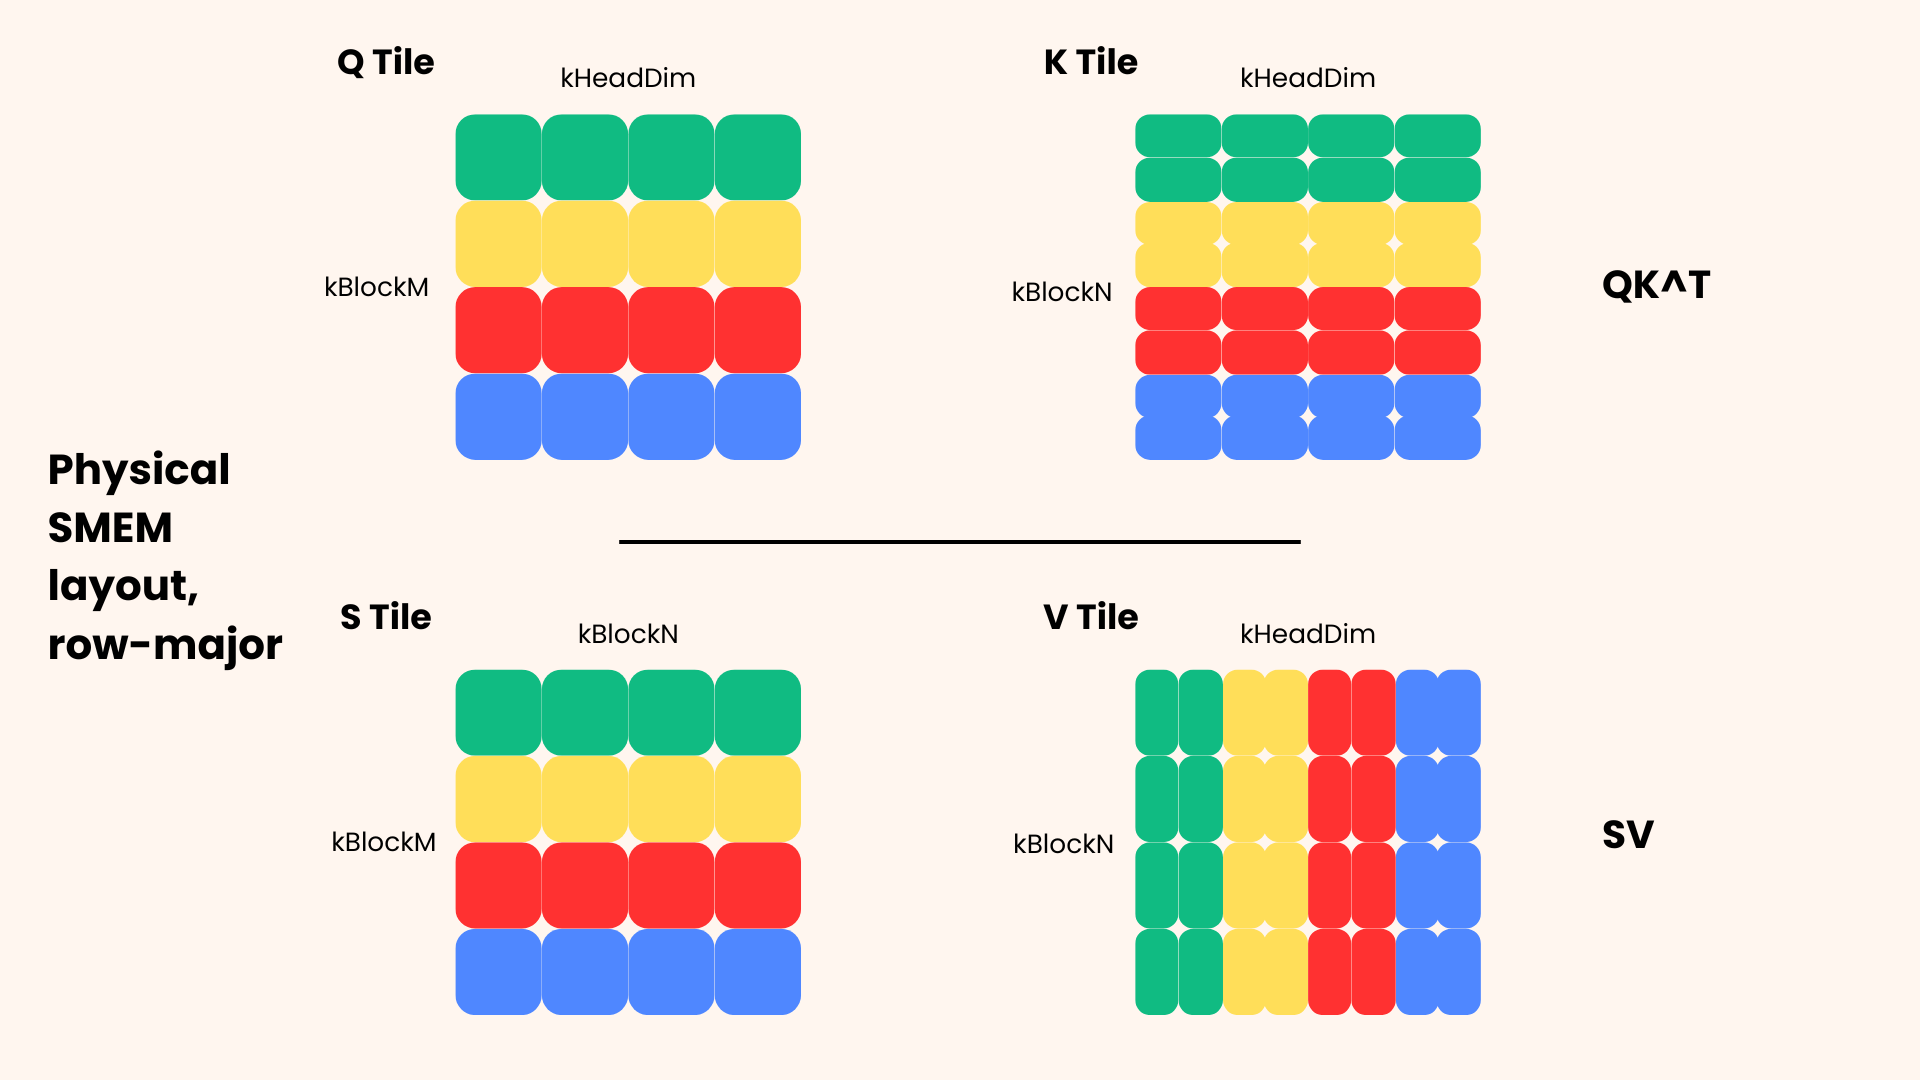
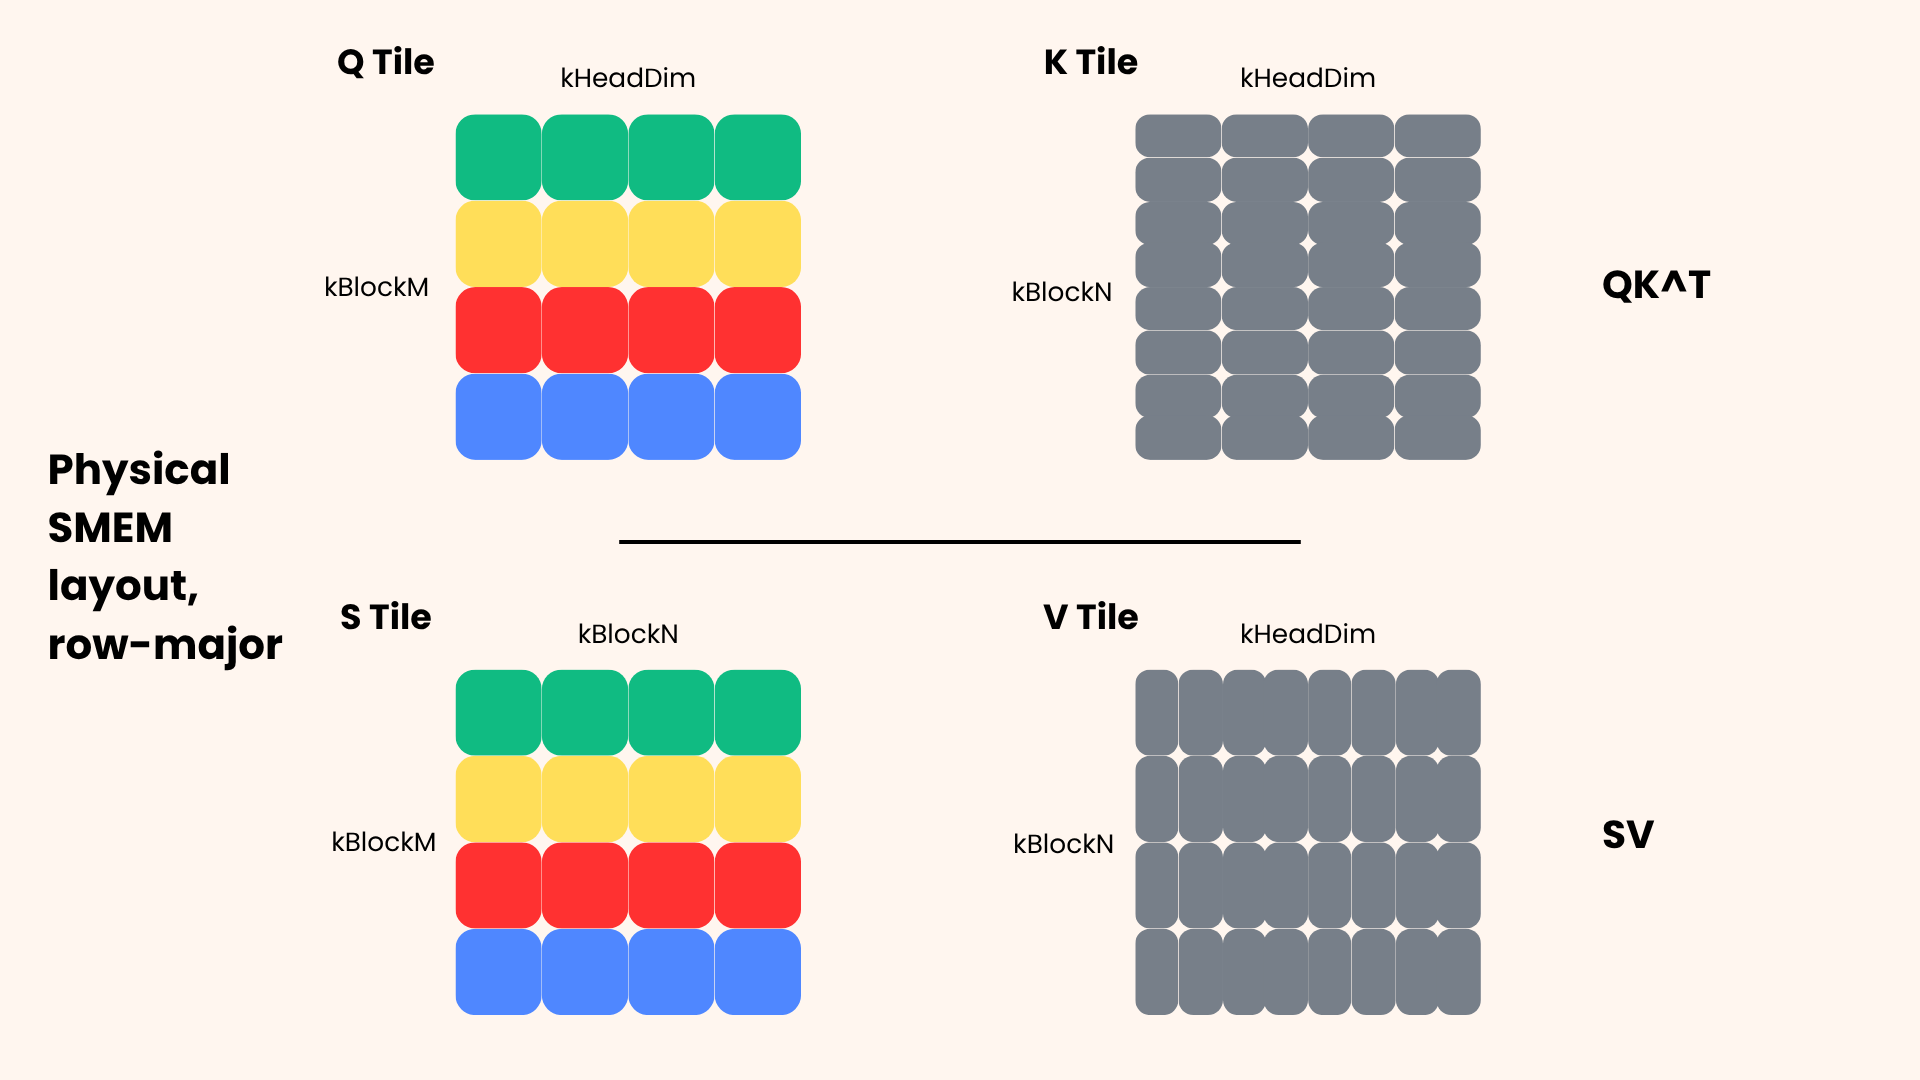
Fix diagrams for mma

Changed region(s): [[0.5938, 0.6111, 0.7812, 0.9472], [0.5938, 0.0917, 0.7812, 0.4278]]

diff --git a/content/post/2026-05-18-flashattn-cutlass/index.md b/content/post/2026-05-18-flashattn-cutlass/index.md
@@ -23,7 +23,7 @@ We'll walk through FlashAttention-2 end-to-end on an A100, implemented in C++ Cu
 
 A quick note on what this blog is supposed to be -- CuTe's documentation is a reference, not a tutorial. You can read it cover to cover and walk away still not knowing CuTe; it's only really worth consulting once you're already trying to do something specific and have hit a wall. This post attempts to be that something specific, and we're going to run straight into those walls together. Most public CuTe writing covers one layer at a time: a layout here, a swizzle there, an MMA atom over there. Tying them into a real kernel is where the difficulty actually lies, and that's the gap this post is trying to fill.
 
-The code we'll walk through is a stripped-down mirror of Tri Dao's production FA-2: same idioms, same building blocks, often the same lines, but with the causal/RoPE/dropout/KV-cache/QK-smem-sharing template branches removed. The core logic is visible instead of buried under config flags that bloat up the repo. Where it matters, our kernel reaches close to parity with the source -- on an A100, **88-105% of production FA-2's throughput** across hdim=64/128 and seq lengths up to 64K, peaking at 63% of fp16 tensor-core utilization ([full benchmark table](https://github.com/cloudui/cuda-triton#cute-flashattention-2-cuda-batch4-heads8)).
+The code we'll walk through is a stripped-down mirror of Tri Dao's production FA-2: same idioms, same building blocks, often the same lines, but with the causal/RoPE/dropout/KV-cache/QK-smem-sharing template branches removed. The core logic is visible instead of buried under config flags that bloat up the repo. Where it matters, our kernel reaches close to parity with the source -- on an A100, **98-112% of production FA-2's throughput** across hdim=64/128 and seq lengths up to 64K, peaking at 63% of fp16 tensor-core utilization ([full benchmark table](https://github.com/cloudui/cuda-triton#cute-flashattention-2-cuda-batch4-heads8)).
 
 The point is not novelty -- it's just to show that our simplifications do not break performance. We are rewriting one production case of many, albeit the simplest and least commonly used: full standard attention. Unlike the autoregressive attention used in LLMs, there is no causal mask prior to the softmax; we're working with the full, standard attention operation. 
 
@@ -648,7 +648,7 @@ Tensor gK = local_tile(mK, make_shape(Int<kBlockN>{}, Int<kHeadDim>{}),
 
 ## SMEM->Registers
 
-> **Read this first: thread view vs. tile view.** From here on out, we're working with tensor-core fragments, and CuTe will start lying to you in a productive way. When CuTe shows you a fragment with shape `((2,2), MMA_M, MMA_N)`, that is **not the shape of a tile** — it's the shape of *one thread's slice of every tile*. The `(2,2)` is the 4 elements that thread holds in a single 16x8 atom; the `MMA_M, MMA_N` count how many atoms tile across the full block. Every operation on a fragment tensor — every `for r in size<0>(frag)`, every `frag(i, j)` — is implicitly executed by all 32 threads of a warp in lock-step, each on its own values. CuTe abstractions (`partition_fragment`, `cute::gemm`, `cute::copy`) make this look like normal tensor code, which is the exact source of confusion: the only place the thread view is *visible* in code is the ~5 lines around `get_thread_slice(tid)`. Whenever a layout stops making sense, ask "is this a tile shape or a thread-slice shape?" — it's almost always the second.
+> **Read this first: thread view vs. tile view.** From here on out, we're working with tensor-core fragments, and CuTe will start lying to you in a productive way. When CuTe shows you a fragment with shape `((2,2), MMA_M, MMA_N)`, that is **not the shape of a tile** -- it's the shape of *one thread's slice of every tile*. The `(2,2)` is the 4 elements that thread holds in a single 16x8 atom; the `MMA_M, MMA_N` count how many atoms tile across the full block. Every operation on a fragment tensor -- every `for r in size<0>(frag)`, every `frag(i, j)` -- is implicitly executed by all 32 threads of a warp in lock-step, each on its own values. CuTe abstractions (`partition_fragment`, `cute::gemm`, `cute::copy`) make this look like normal tensor code, which is the exact source of confusion: the only place the thread view is *visible* in code is the ~5 lines around `get_thread_slice(tid)`. Whenever a layout stops making sense, ask "is this a tile shape or a thread-slice shape?" -- it's almost always the second.
 
 We'll issue a second `Tiled_Copy` to copy from SMEM to the registers. The copy pattern is mostly the same, but instead of simply transferring memory from SMEM to the registers, we must format the SMEM and registers for the tensor core matrix multiply-add (MMA) instructions.
 
@@ -723,13 +723,12 @@ The standard practice for any GEMM is to split the GEMM along the K-dimension. T
 
 We choose 128 threads (4 warps) because each SM has 4 resident tensor cores -- a sensible choice to maximize MMA throughput. For the layout, we tile across the M-dimension (taking a slice from the left column of Q) and move across the K-dimension. Each tile is `kNWarps` stacked on top of each other; for a 16x8x16 MMA atom, our tile shape becomes $(M, N, K) = (16\cdot\text{kNWarps}, 16, 16)$.
 
-We flagged this M-tiling design choice in the [Basic Structure section](#basic-structure). The `Layout<Shape<Int<kNWarps>, _1, _1>>` puts all the warps along M with `_1` along N and K, which means **every warp owns whole rows of the output, never a horizontal slice of one**. Since N only gets `_1`, the same warp sweeps across every N-tile itself, computing its rows of S against every key in the block. When we compute the per-row max and per-row sum during softmax, the values to be reduced live in registers within a single warp, so the reduction is a `__shfl_xor_sync()` away — no SMEM staging, no thread-block sync. If we had tiled warps along N instead, that same reduction would have to cross warps and we'd be staging through SMEM with `__syncthreads()` on every iteration, crushing our performance. This staging was a forced sticking point on original FlashAttention-1.
+We flagged this M-tiling design choice in the [Basic Structure section](#basic-structure). The `Layout<Shape<Int<kNWarps>, _1, _1>>` puts all the warps along M with `_1` along N and K, which means **every warp owns whole rows of the output, never a horizontal slice of one**. Since N only gets `_1`, the same warp sweeps across every N-tile itself, computing its rows of S against every key in the block. When we compute the per-row max and per-row sum during softmax, the values to be reduced live in registers within a single warp, so the reduction is a `__shfl_xor_sync()` away -- no SMEM staging, no thread-block sync. If we had tiled warps along N instead, that same reduction would have to cross warps and we'd be staging through SMEM with `__syncthreads()` on every iteration, crushing our performance. This staging was a forced sticking point on original FlashAttention-1.
 
 We'll also see soon that this TiledMMA takes in only one `Layout` argument. The `(M, N, K)` we defined applies to A, B, and C according to the M, N, K dimensions they hold. This is why `16*kNWarps` means each warp holds a 16-row band of the output C spanning all N columns. (Within the warp, each row is further spread across a quad of 4 threads, which we'll come back to in softmax.) And when we actually write the code loop, we'll see how this influences the K-loop.
 
 > **Note**: $N=16$, not 8, because we must aggregate across adjacent N-atoms to produce one 16x16 output tile due to the 16x8 asymmetry. That also means our `LDSM` copy atom loads two K, V tiles per instruction. This works because our N-tiles are index-adjacent.
 
-<!-- TODO: recolor B in tiled_mma.png as a neutral gray (shared), keeping A and C in warp colors -->
 ![Tiled MMA layout for one step of the GEMM. For A and C, each solid color is one of four warps; if we had more rows, the color pattern would repeat. B is shared: every warp reads all of B, and its tiling shows the MMA atoms, not ownership. Each 16x16 B-tile is composed of two 16x8 fragments that are adjacent along N for shape (K, N). Note that B is transposed in this visualization.](tiled_mma.png)
 
 With this info, let's define the full `Tiled_MMA`.
@@ -832,13 +831,30 @@ Notice that Q's M mode is divided by `kNWarps`, but K's N mode isn't. Each warp 
 
 We already defined the `TiledMMA` and our `SmemCopyAtom`, but as we said before, nothing happens until we actually invoke our copy and GEMM calls. As discussed in the [K-split section](#k-split-gemm), we load one k-slice per iteration and accumulate it into the output. Before each GEMM, we prefetch the next k-slice of the Q and K fragments so we can overlap the SMEM->register loads with the GEMM compute.
 
+![How one warp creates one output tile. It's pretty much how you learned to multiply matrices by hand but with tiles instead of individual numbers. We iterate over the K-dimension where the warp does one tile MMA at a time and adds to the previous's result. The colors match the blocks that multiply.](mma_macro.png)
+
 We index these k-slices via `register(_, _, i)` to grab the relevant fragments per loop iteration. The underscores keep the M (or N) mode intact, so each partial GEMM computes across the M and N dimensions automatically, since those are independent output cells for a fixed k-slice. That means each warp computes its resident Q fragment against all `kBlockN/8` K fragments in one go, and every warp reads those same K fragments from SMEM. The accumulator `acc_s` covers the full `(kBlockM, kBlockN)` block across all warps, with each warp holding its own 16-row band across every column, and each k iteration just adds to the existing output.
 
-![Macro view of the MMA. We iterate over the K-dimension, each tile multiplying across and summing into one output tile. The colors just mean they pair, not that they are the same. In the tiled MMA, CuTe handles all the M, N work on our behalf. We just have to accumulate along the K-dim.](mma_macro.png)
+![One k-step of the warp-wide MMA (k=0). Each warp (color) multiplies its own k=0 slice of Q by the same k=0 slice of K^T, which every warp reads from SMEM, and accumulates into its row band of S across all of N. At the next step, every warp moves to k=1 together.](tiled_mma_step_0.png)
 
 Here's the full GEMM block:
 
-(code unchanged)
+```cpp
+// load initial Q, K fragments (0)
+cute::copy(smem_tiled_copy_Q, tSsQ(_, _, _0{}), tXrQ(_, _, _0{}));
+cute::copy(smem_tiled_copy_K, tSsK(_, _, _0{}), tXrK(_, _, _0{}));
+// compile-time static, registers only live per iteration
+#pragma unroll
+for (int i = 0; i < size<2>(tSrQ); i++) {
+  // prefetch next Q, K block
+  if (i < size<2>(tSrQ) - 1) {
+    cute::copy(smem_tiled_copy_Q, tSsQ(_, _, i + 1), tXrQ(_, _, i + 1));
+    cute::copy(smem_tiled_copy_K, tSsK(_, _, i + 1), tXrK(_, _, i + 1));
+  }
+  // MMA on frags
+  cute::gemm(tiled_mma, tSrQ(_, _, i), tSrK(_, _, i), acc_s);
+}
+```
 
 > **Note**: The `cute::gemm` call does all the M, N work for us automatically, so this K loop isn't strictly required. `cute::gemm` also accepts fragments with a K mode, so we could invoke one full `cute::copy` on `tSsQ, tSsK` without indexing, which would load every k-slice of the Q and K fragments into registers at once, and then call `cute::gemm` a single time with no loop. The K-split is the standard pattern because it keeps only about two k-slices live in registers, avoiding register pressure (and possible spills at larger head dims), and lets us overlap loads with the MMAs. CuTe gives us the flexibility to choose.
 
@@ -1051,8 +1067,7 @@ Tensor tVsV = gmem_thr_copy_QKV.partition_D(sV);
 ### V: SMEM->Register
 This is the step where we have to tread a bit carefully. V is sitting in SMEM in the same format as Q and K -- contiguous along `kHeadDim` -- so we can't just copy our SMEM->register pipeline from earlier. This part is a bit confusing, so let's visualize the problem first:
 
-<!-- TODO: recolor V in mma_v_layout.png as a neutral gray (shared by all warps), keeping Q and S in warp colors -->
-![SMEM physical layout for our MMAs. Each block is a tile. Q and S are colored by the warp that owns their rows; K and V are shared, and every warp reads the whole tile.](mma_v_layout.png)
+![SMEM layout of the Q, K, S, and V tiles (logical row-major view, swizzle not shown). Q and S are colored by the warp that owns their rows; K and V are shared by all warps. Q·Kᵀ reduces along kHeadDim, which is contiguous for K, but S·V reduces along kBlockN, which runs down V's rows -- so the MMA tiles fall on V transposed relative to K.](mma_v_layout.png)
 
 > **Note**: The Tiled MMA figure in our [tiled MMA section](#tiled-mma) shows the logical (K, N) view the MMA wants. The figure here shows V's physical layout in SMEM, which is why we need the transpose.
 
@@ -1376,7 +1391,7 @@ softmax_rescale_o(Tensor0 &acc_s, // (MMA, MMA_M, MMA_N) score block, fp32
 So what actually goes into computing the max and the sum?
 
 ## Row Reduce
-This is the moment where the [warp-per-row tiling](#tiled-mma) pays off. Each warp owns 16 rows of its MMA tile, fully -- no row is split across warps. Therefore, the per-row max and sum reductions stay inside a warp and resolve via **warp reduction**, "a highly efficient CUDA parallel reduction technique that aggregates data across 32 threads within a single GPU warp."[^5] CUDA provides warp primitives such as `__shfl_down_sync()` and `__shfl_xor_sync()`, which shuffle data across threads in a warp without any load/stores or shared-memory staging. Zero memory latency, zero `__syncthreads()`, and our max/sum is pretty much free.
+This is the moment where the [warp-per-row tiling](#tiled-mma) pays off. Each warp owns 16 rows of its MMA tile, fully -- no row is split across warps -- and computes each of those rows against every key in the block. Therefore, the per-row max and sum reductions stay inside a warp and resolve via **warp reduction**, "a highly efficient CUDA parallel reduction technique that aggregates data across 32 threads within a single GPU warp."[^5] CUDA provides warp primitives such as `__shfl_down_sync()` and `__shfl_xor_sync()`, which shuffle data across threads in a warp without any load/stores or shared-memory staging. Zero memory latency, zero `__syncthreads()`, and our max/sum is pretty much free.
 
 ![XOR shuffle pattern. Thanks to Hyunsung Lee's Blog for this graphic](xor.png)
 
@@ -1389,7 +1404,7 @@ Recall that every thread in a 16x8 MMA output fragment holds $16\cdot 8 / 32=4$ 
 
 Let's look at the bottom right output fragment C this time and zoom in on thread 0's values. We can see it owns output elements `(0, 0), (0, 1), (8, 0), (8, 1)`. If we examine all the other threads, we see that they each own 4 elements across two rows. Let's clarify the math a bit:
 
-From the [MMA Shape](#mma-shape) section, the C-fragment has shape `((2, 2), MMA_M, MMA_N)` where `MMA_M = kBlockM / (16*kNWarps)` and `MMA_N = kBlockN / 8`. The `(2, 2)` is each thread's 4 values per tile (2 rows, 2 columns) so each thread's values span `MMA_M * 2` rows and `MMA_N * 2` columns total.
+From the [MMA Shape](#mma-shape) section, the C-fragment has shape `((2, 2), MMA_M, MMA_N)` where `MMA_M = kBlockM / (16*kNWarps)` and `MMA_N = kBlockN / 8`. The `(2, 2)` is each thread's 4 values per tile (2 rows, 2 columns) so each thread's values span `MMA_M * 2` rows and `MMA_N * 2` columns total. Since warps never split N, `MMA_N` covers the *entire* `kBlockN`. That's why a per-thread reduce followed by a reduce across the few threads sharing each row is a complete row reduction: no other warp holds any part of the row.
 
 To make the reduction loop look like ordinary 2D code, Dao reshapes this hierarchical fragment into a flat row-major `(2*MMA_M, 2*MMA_N)` view. Since the block sizes are static, the reshape is free. It's purely a code-quality trick; the resulting PTX is identical to iterating over the raw MMA shape.
 
@@ -1535,7 +1550,7 @@ __device__ __forceinline__ T allreduce(T x, Op op) {
 ```
 
 ### Quad Reduce
-The reason we give `allreduce` a template variable `N` is that we're not actually reducing across all 32 threads. We only need to reduce over the number of threads that own each row. In the [MMA Atom Layout image](#thread-reduce) from earlier, we see that four adjacent threads collectively own each row. Therefore, `N=4` -- hence, "quad" reduce. The XOR primitive automatically reduces between participating threads, so we don't have to iterate in groups of four -- the sync instruction waits for each four-thread group to enter the reduction. Our quad reduce function is therefore quite simple:
+The reason we give `allreduce` a template variable `N` is that we're not actually reducing across all 32 threads. We only need to reduce over the threads that own each row. In the [MMA Atom Layout image](#thread-reduce) from earlier, we see that four adjacent threads collectively own each row. Therefore, `N=4` -- hence, "quad" reduce. With XOR offsets of 2 and then 1, each shuffle only ever exchanges values between lanes in the same group of four, so all eight quads in the warp reduce simultaneously in two steps -- we don't have to iterate in groups of four ourselves. Our quad reduce function is therefore quite simple:
 
 ```cpp
 template <typename Engine0, typename Layout0, typename Engine1,
@@ -1878,7 +1893,7 @@ softmax.normalize_softmax(acc_o);
 ```
 
 # Epilogue: Output->GMEM
-We now have our output stored in fragments across all the warps, and we want to write them back to `o_ptr` in GMEM. The optimal way to perform the write-back is:
+We now have our output stored in fragments across all the warps -- each warp holding exactly its own rows of O, just as it held its own rows of S -- and we want to write them back to `o_ptr` in GMEM. The optimal way to perform the write-back is:
 
 ```
 Registers->SMEM->Registers->GMEM
@@ -1887,8 +1902,8 @@ Registers->SMEM->Registers->GMEM
 You might be wondering: if we're going to go from SMEM back to registers anyway, why don't we just write back directly from the fragments? The answer is threefold:
 
 1. **No SMEM->GMEM instructions**: Ampere has the nice async GMEM->SMEM pipeline, but no direct SMEM->GMEM pipeline. Therefore, we have to stage the SMEM blocks in registers before writing back to HBM.
-2. **Vectorization**: The fragments are stored as per-thread shapes, scattered as halfs across all the registers. To write back to GMEM directly, each thread would have to write one fp32 at a time across a bunch of scattered memory addresses. Given what we know about the memory bus and vectorization, this is excruciatingly inefficient and slow. By staging through SMEM, each thread can write a full 128-bit block in one instruction, like before.
-3. **Coalescing**: Furthermore, we can group all 32 threads into a contiguous block to coalesce the store into a 512-byte memory transaction, like before.
+2. **Vectorization**: The fragments are stored as per-thread shapes, scattered as half-pairs across all the registers. To write back to GMEM directly, each thread would have to write 32 bits (two fp16s) at a time across a bunch of scattered memory addresses. Given what we know about the memory bus and vectorization, this is excruciatingly inefficient and slow. By staging through SMEM, each thread can write a full 128-bit block in one instruction, like before.
+3. **Coalescing**: Furthermore, we can arrange each warp's 32 threads to write one contiguous 512-byte block, which the memory controller drains as full 128-byte transactions, like before.
 
 > **Note**: Vectorization is per-thread; coalescing is across threads (per-warp).
 
